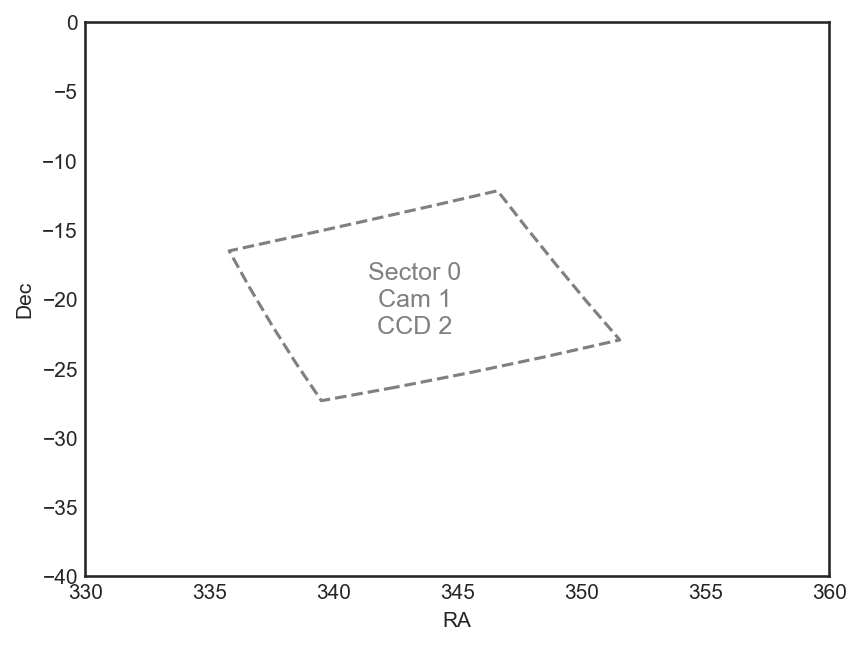
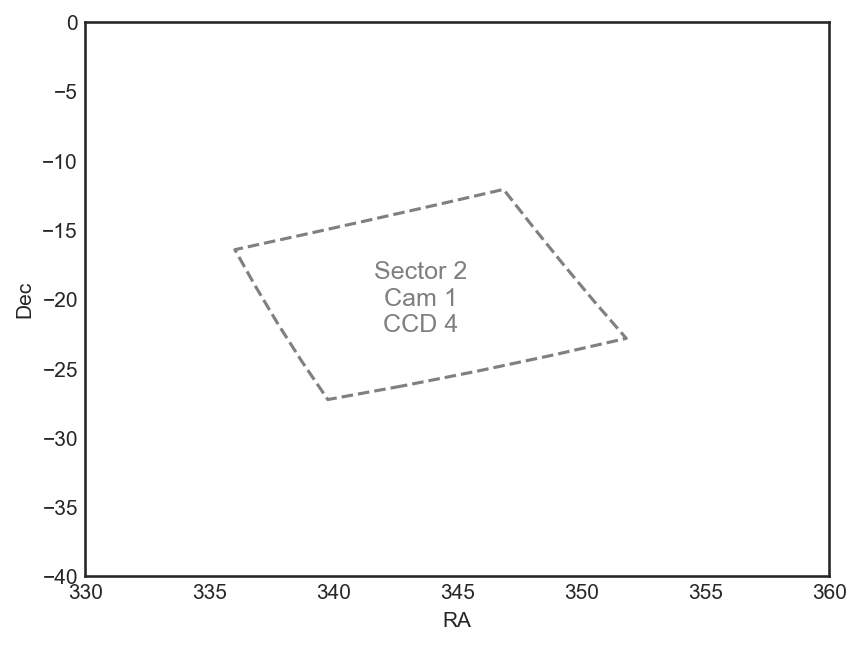
Deployed e39a5d9 with MkDocs version: 1.3.0

diff --git a/api/index.html b/api/index.html
@@ -826,7 +826,7 @@ For matplotlib projections (e.g. <code>'mollweide'</code> or <code>'hammer'</cod
 <a id="__codelineno-0-48" name="__codelineno-0-48" href="#__codelineno-0-48"></a>        <span class="n">ax</span><span class="o">.</span><span class="n">text</span><span class="p">(</span>
 <a id="__codelineno-0-49" name="__codelineno-0-49" href="#__codelineno-0-49"></a>            <span class="n">patch</span><span class="p">[</span><span class="mi">0</span><span class="p">]</span><span class="o">.</span><span class="n">mean</span><span class="p">(),</span>
 <a id="__codelineno-0-50" name="__codelineno-0-50" href="#__codelineno-0-50"></a>            <span class="n">patch</span><span class="p">[</span><span class="mi">1</span><span class="p">]</span><span class="o">.</span><span class="n">mean</span><span class="p">(),</span>
-<a id="__codelineno-0-51" name="__codelineno-0-51" href="#__codelineno-0-51"></a>            <span class="sa">f</span><span class="s2">&quot;Sector </span><span class="si">{</span><span class="mi">0</span><span class="si">}</span><span class="se">\n</span><span class="s2">Cam </span><span class="si">{</span><span class="mi">1</span><span class="si">}</span><span class="se">\n</span><span class="s2">CCD </span><span class="si">{</span><span class="mi">2</span><span class="si">}</span><span class="s2">&quot;</span><span class="o">.</span><span class="n">format</span><span class="p">(</span><span class="n">label</span><span class="p">),</span>
+<a id="__codelineno-0-51" name="__codelineno-0-51" href="#__codelineno-0-51"></a>            <span class="sa">f</span><span class="s2">&quot;Sector </span><span class="si">{</span><span class="n">label</span><span class="p">[</span><span class="mi">0</span><span class="p">]</span><span class="si">}</span><span class="se">\n</span><span class="s2">Cam </span><span class="si">{</span><span class="n">label</span><span class="p">[</span><span class="mi">1</span><span class="p">]</span><span class="si">}</span><span class="se">\n</span><span class="s2">CCD </span><span class="si">{</span><span class="n">label</span><span class="p">[</span><span class="mi">2</span><span class="p">]</span><span class="si">}</span><span class="s2">&quot;</span><span class="p">,</span>
 <a id="__codelineno-0-52" name="__codelineno-0-52" href="#__codelineno-0-52"></a>            <span class="n">ha</span><span class="o">=</span><span class="n">ha</span><span class="p">,</span>
 <a id="__codelineno-0-53" name="__codelineno-0-53" href="#__codelineno-0-53"></a>            <span class="n">va</span><span class="o">=</span><span class="n">va</span><span class="p">,</span>
 <a id="__codelineno-0-54" name="__codelineno-0-54" href="#__codelineno-0-54"></a>            <span class="n">color</span><span class="o">=</span><span class="n">color</span><span class="p">,</span>
@@ -860,10 +860,10 @@ For matplotlib projections (e.g. <code>'mollweide'</code> or <code>'hammer'</cod
 <a id="__codelineno-0-2" name="__codelineno-0-2" href="#__codelineno-0-2"></a>    <span class="sd">&quot;&quot;&quot;Gets the column and row points for CCD edges&quot;&quot;&quot;</span>
 <a id="__codelineno-0-3" name="__codelineno-0-3" href="#__codelineno-0-3"></a>    <span class="n">column</span> <span class="o">=</span> <span class="n">np</span><span class="o">.</span><span class="n">hstack</span><span class="p">(</span>
 <a id="__codelineno-0-4" name="__codelineno-0-4" href="#__codelineno-0-4"></a>        <span class="p">[</span>
-<a id="__codelineno-0-5" name="__codelineno-0-5" href="#__codelineno-0-5"></a>            <span class="n">np</span><span class="o">.</span><span class="n">zeros</span><span class="p">(</span><span class="n">npoints</span><span class="p">)</span> <span class="o">+</span> <span class="mi">45</span><span class="p">,</span>
-<a id="__codelineno-0-6" name="__codelineno-0-6" href="#__codelineno-0-6"></a>            <span class="n">np</span><span class="o">.</span><span class="n">linspace</span><span class="p">(</span><span class="mi">0</span><span class="p">,</span> <span class="mi">2048</span><span class="p">,</span> <span class="n">npoints</span><span class="p">)</span> <span class="o">+</span> <span class="mi">45</span><span class="p">,</span>
-<a id="__codelineno-0-7" name="__codelineno-0-7" href="#__codelineno-0-7"></a>            <span class="n">np</span><span class="o">.</span><span class="n">linspace</span><span class="p">(</span><span class="mi">0</span><span class="p">,</span> <span class="mi">2048</span><span class="p">,</span> <span class="n">npoints</span><span class="p">)</span> <span class="o">+</span> <span class="mi">45</span><span class="p">,</span>
-<a id="__codelineno-0-8" name="__codelineno-0-8" href="#__codelineno-0-8"></a>            <span class="n">np</span><span class="o">.</span><span class="n">ones</span><span class="p">(</span><span class="n">npoints</span><span class="p">)</span> <span class="o">*</span> <span class="mi">2048</span> <span class="o">+</span> <span class="mi">45</span><span class="p">,</span>
+<a id="__codelineno-0-5" name="__codelineno-0-5" href="#__codelineno-0-5"></a>            <span class="n">np</span><span class="o">.</span><span class="n">zeros</span><span class="p">(</span><span class="n">npoints</span><span class="p">),</span>
+<a id="__codelineno-0-6" name="__codelineno-0-6" href="#__codelineno-0-6"></a>            <span class="n">np</span><span class="o">.</span><span class="n">linspace</span><span class="p">(</span><span class="mi">0</span><span class="p">,</span> <span class="mi">2048</span><span class="p">,</span> <span class="n">npoints</span><span class="p">),</span>
+<a id="__codelineno-0-7" name="__codelineno-0-7" href="#__codelineno-0-7"></a>            <span class="n">np</span><span class="o">.</span><span class="n">linspace</span><span class="p">(</span><span class="mi">0</span><span class="p">,</span> <span class="mi">2048</span><span class="p">,</span> <span class="n">npoints</span><span class="p">),</span>
+<a id="__codelineno-0-8" name="__codelineno-0-8" href="#__codelineno-0-8"></a>            <span class="n">np</span><span class="o">.</span><span class="n">ones</span><span class="p">(</span><span class="n">npoints</span><span class="p">)</span> <span class="o">*</span> <span class="mi">2048</span><span class="p">,</span>
 <a id="__codelineno-0-9" name="__codelineno-0-9" href="#__codelineno-0-9"></a>        <span class="p">]</span>
 <a id="__codelineno-0-10" name="__codelineno-0-10" href="#__codelineno-0-10"></a>    <span class="p">)</span>
 <a id="__codelineno-0-11" name="__codelineno-0-11" href="#__codelineno-0-11"></a>    <span class="n">row</span> <span class="o">=</span> <span class="n">np</span><span class="o">.</span><span class="n">hstack</span><span class="p">(</span>

diff --git a/index.html b/index.html
@@ -217,114 +217,9 @@
         
       
       
-        <label class="md-nav__link md-nav__link--active" for="__toc">
-          Home
-          <span class="md-nav__icon md-icon"></span>
-        </label>
-      
       <a href="." class="md-nav__link md-nav__link--active">
         Home
       </a>
-      
-        
-
-<nav class="md-nav md-nav--secondary" aria-label="Table of contents">
-  
-  
-  
-    
-  
-  
-    <label class="md-nav__title" for="__toc">
-      <span class="md-nav__icon md-icon"></span>
-      Table of contents
-    </label>
-    <ul class="md-nav__list" data-md-component="toc" data-md-scrollfix>
-      
-        <li class="md-nav__item">
-  <a href="#tessfov-functions" class="md-nav__link">
-    tessFOV Functions
-  </a>
-  
-</li>
-      
-        <li class="md-nav__item">
-  <a href="#examples" class="md-nav__link">
-    Examples
-  </a>
-  
-    <nav class="md-nav" aria-label="Examples">
-      <ul class="md-nav__list">
-        
-          <li class="md-nav__item">
-  <a href="#adding-to-matplotlib-subplot" class="md-nav__link">
-    Adding to matplotlib subplot
-  </a>
-  
-</li>
-        
-      </ul>
-    </nav>
-  
-</li>
-      
-        <li class="md-nav__item">
-  <a href="#examples_1" class="md-nav__link">
-    Examples
-  </a>
-  
-    <nav class="md-nav" aria-label="Examples">
-      <ul class="md-nav__list">
-        
-          <li class="md-nav__item">
-  <a href="#adding-to-matplotlib-map-projections" class="md-nav__link">
-    Adding to matplotlib map projections
-  </a>
-  
-</li>
-        
-      </ul>
-    </nav>
-  
-</li>
-      
-        <li class="md-nav__item">
-  <a href="#examples_2" class="md-nav__link">
-    Examples
-  </a>
-  
-    <nav class="md-nav" aria-label="Examples">
-      <ul class="md-nav__list">
-        
-          <li class="md-nav__item">
-  <a href="#adding-one-ccd" class="md-nav__link">
-    Adding one CCD
-  </a>
-  
-</li>
-        
-      </ul>
-    </nav>
-  
-</li>
-      
-        <li class="md-nav__item">
-  <a href="#gotchas" class="md-nav__link">
-    Gotchas
-  </a>
-  
-</li>
-      
-        <li class="md-nav__item">
-  <a href="#installation" class="md-nav__link">
-    Installation
-  </a>
-  
-</li>
-      
-    </ul>
-  
-</nav>
       
     </li>
   
@@ -365,95 +260,6 @@
     
   
   
-    <label class="md-nav__title" for="__toc">
-      <span class="md-nav__icon md-icon"></span>
-      Table of contents
-    </label>
-    <ul class="md-nav__list" data-md-component="toc" data-md-scrollfix>
-      
-        <li class="md-nav__item">
-  <a href="#tessfov-functions" class="md-nav__link">
-    tessFOV Functions
-  </a>
-  
-</li>
-      
-        <li class="md-nav__item">
-  <a href="#examples" class="md-nav__link">
-    Examples
-  </a>
-  
-    <nav class="md-nav" aria-label="Examples">
-      <ul class="md-nav__list">
-        
-          <li class="md-nav__item">
-  <a href="#adding-to-matplotlib-subplot" class="md-nav__link">
-    Adding to matplotlib subplot
-  </a>
-  
-</li>
-        
-      </ul>
-    </nav>
-  
-</li>
-      
-        <li class="md-nav__item">
-  <a href="#examples_1" class="md-nav__link">
-    Examples
-  </a>
-  
-    <nav class="md-nav" aria-label="Examples">
-      <ul class="md-nav__list">
-        
-          <li class="md-nav__item">
-  <a href="#adding-to-matplotlib-map-projections" class="md-nav__link">
-    Adding to matplotlib map projections
-  </a>
-  
-</li>
-        
-      </ul>
-    </nav>
-  
-</li>
-      
-        <li class="md-nav__item">
-  <a href="#examples_2" class="md-nav__link">
-    Examples
-  </a>
-  
-    <nav class="md-nav" aria-label="Examples">
-      <ul class="md-nav__list">
-        
-          <li class="md-nav__item">
-  <a href="#adding-one-ccd" class="md-nav__link">
-    Adding one CCD
-  </a>
-  
-</li>
-        
-      </ul>
-    </nav>
-  
-</li>
-      
-        <li class="md-nav__item">
-  <a href="#gotchas" class="md-nav__link">
-    Gotchas
-  </a>
-  
-</li>
-      
-        <li class="md-nav__item">
-  <a href="#installation" class="md-nav__link">
-    Installation
-  </a>
-  
-</li>
-      
-    </ul>
-  
 </nav>
                   </div>
                 </div>
@@ -473,6 +279,8 @@
 <p><a href="https://github.com/christinahedges/tessfov/actions/workflows/tests.yml"><img src="https://github.com/christinahedges/tessfov/workflows/pytest/badge.svg" alt="Test status"/></a> <a href="https://christinahedges.github.io/tessfov"><img alt="Generic badge" src="https://img.shields.io/badge/documentation-live-blue.svg" /></a></p>
 <h1 id="tessfov">tessFOV</h1>
 <p><code>tessFOV</code> will plot the footprint of NASA's TESS Spacecraft pointings on your existing <code>matplotlib.pyplot.Axes</code> objects. <code>tessFOV</code> uses the <a href="https://github.com/christopherburke/tess-point"><code>tess-point</code></a> package to find the edges of the CCDs for any given pointing, and provides user friendly functions for plotting these footprints.</p>
+<h1 id="requirements">Requirements</h1>
+<p><code>tessFOV</code> requires Python 3.8 or higher. The full list of module requirements can be found in the <code>pyproject.toml</code> file of this module.</p>
 <h2 id="tessfov-functions">tessFOV Functions</h2>
 <p><code>tessFOV</code> has the following functions available:</p>
 <div class="highlight"><pre><span></span><code><a id="__codelineno-0-1" name="__codelineno-0-1" href="#__codelineno-0-1"></a>add_tessfov_outline: Adds outlines for a given sector, camera, CCD
